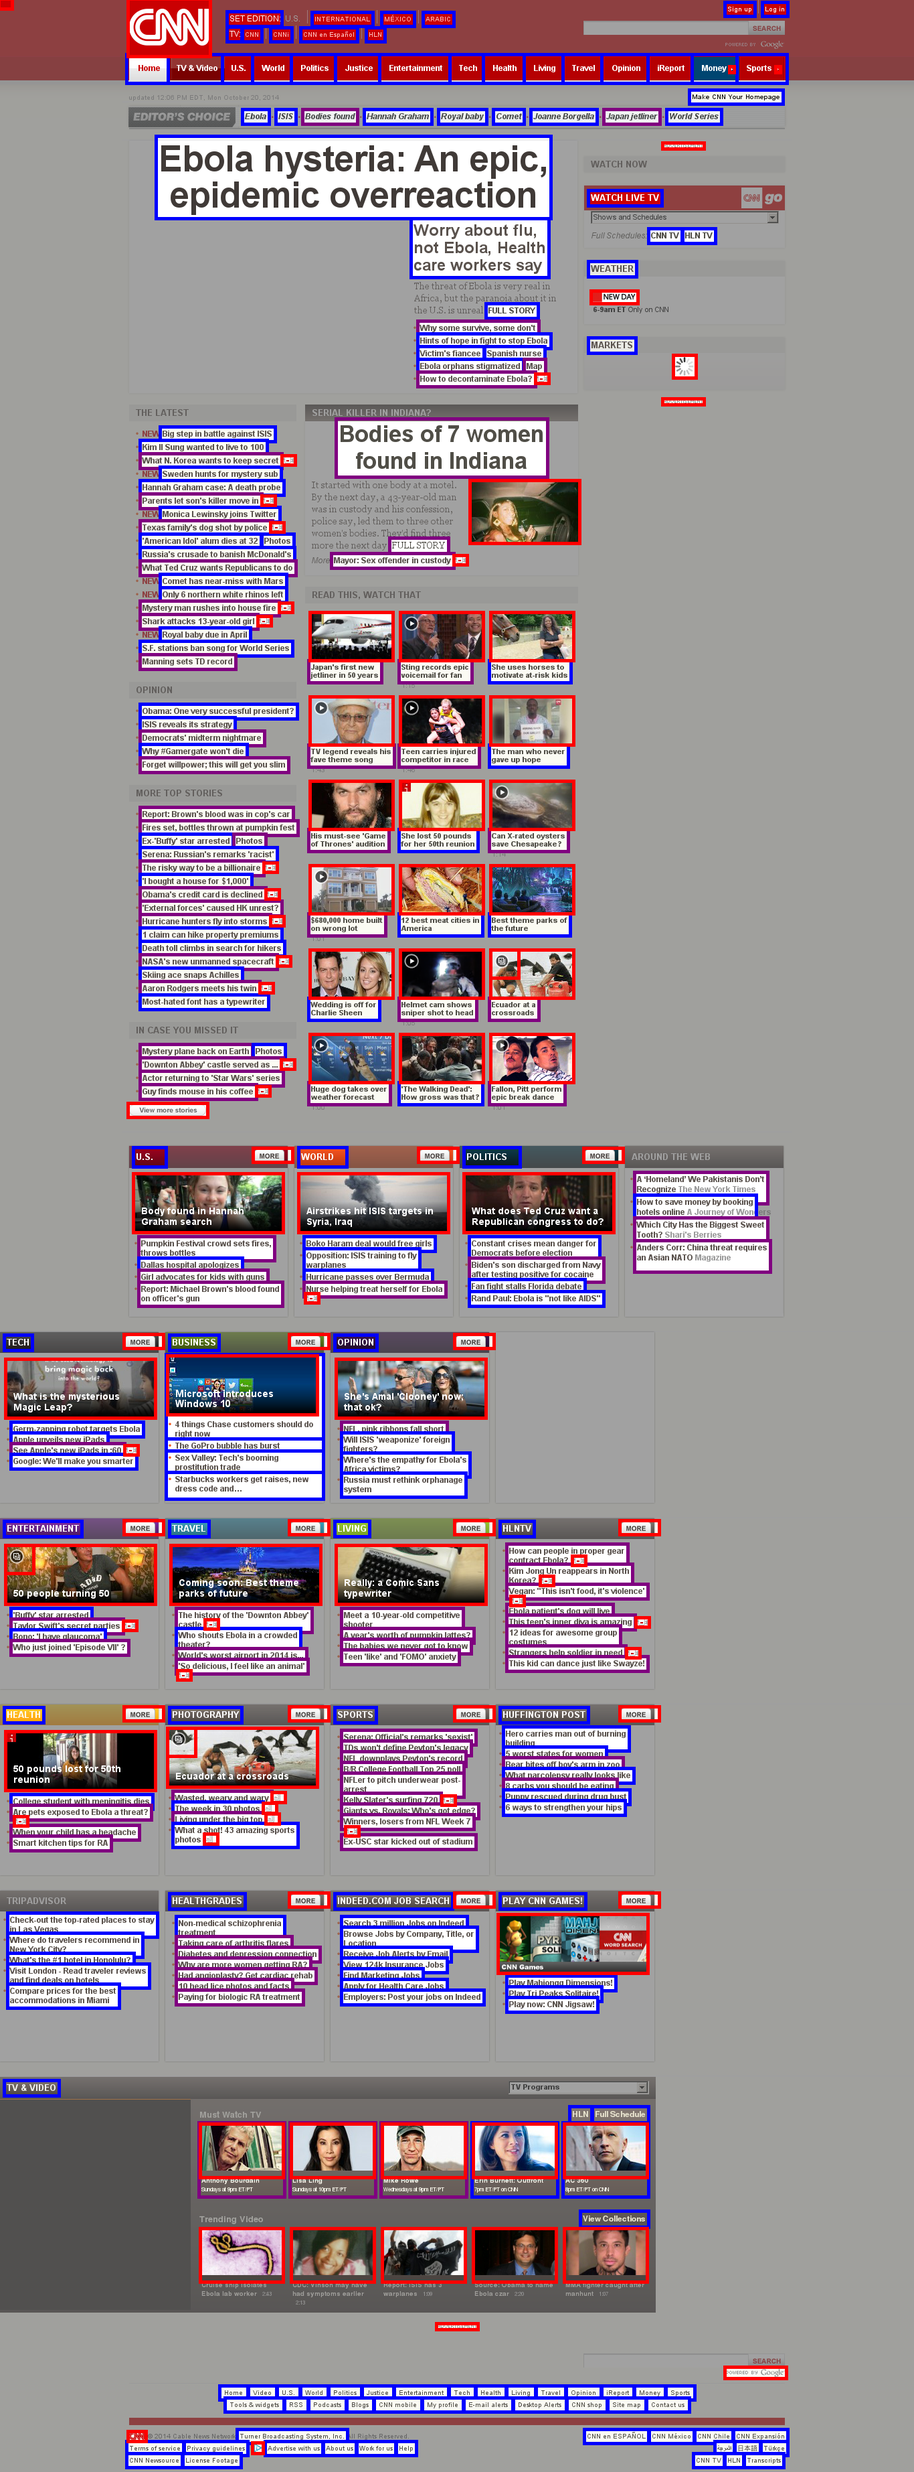
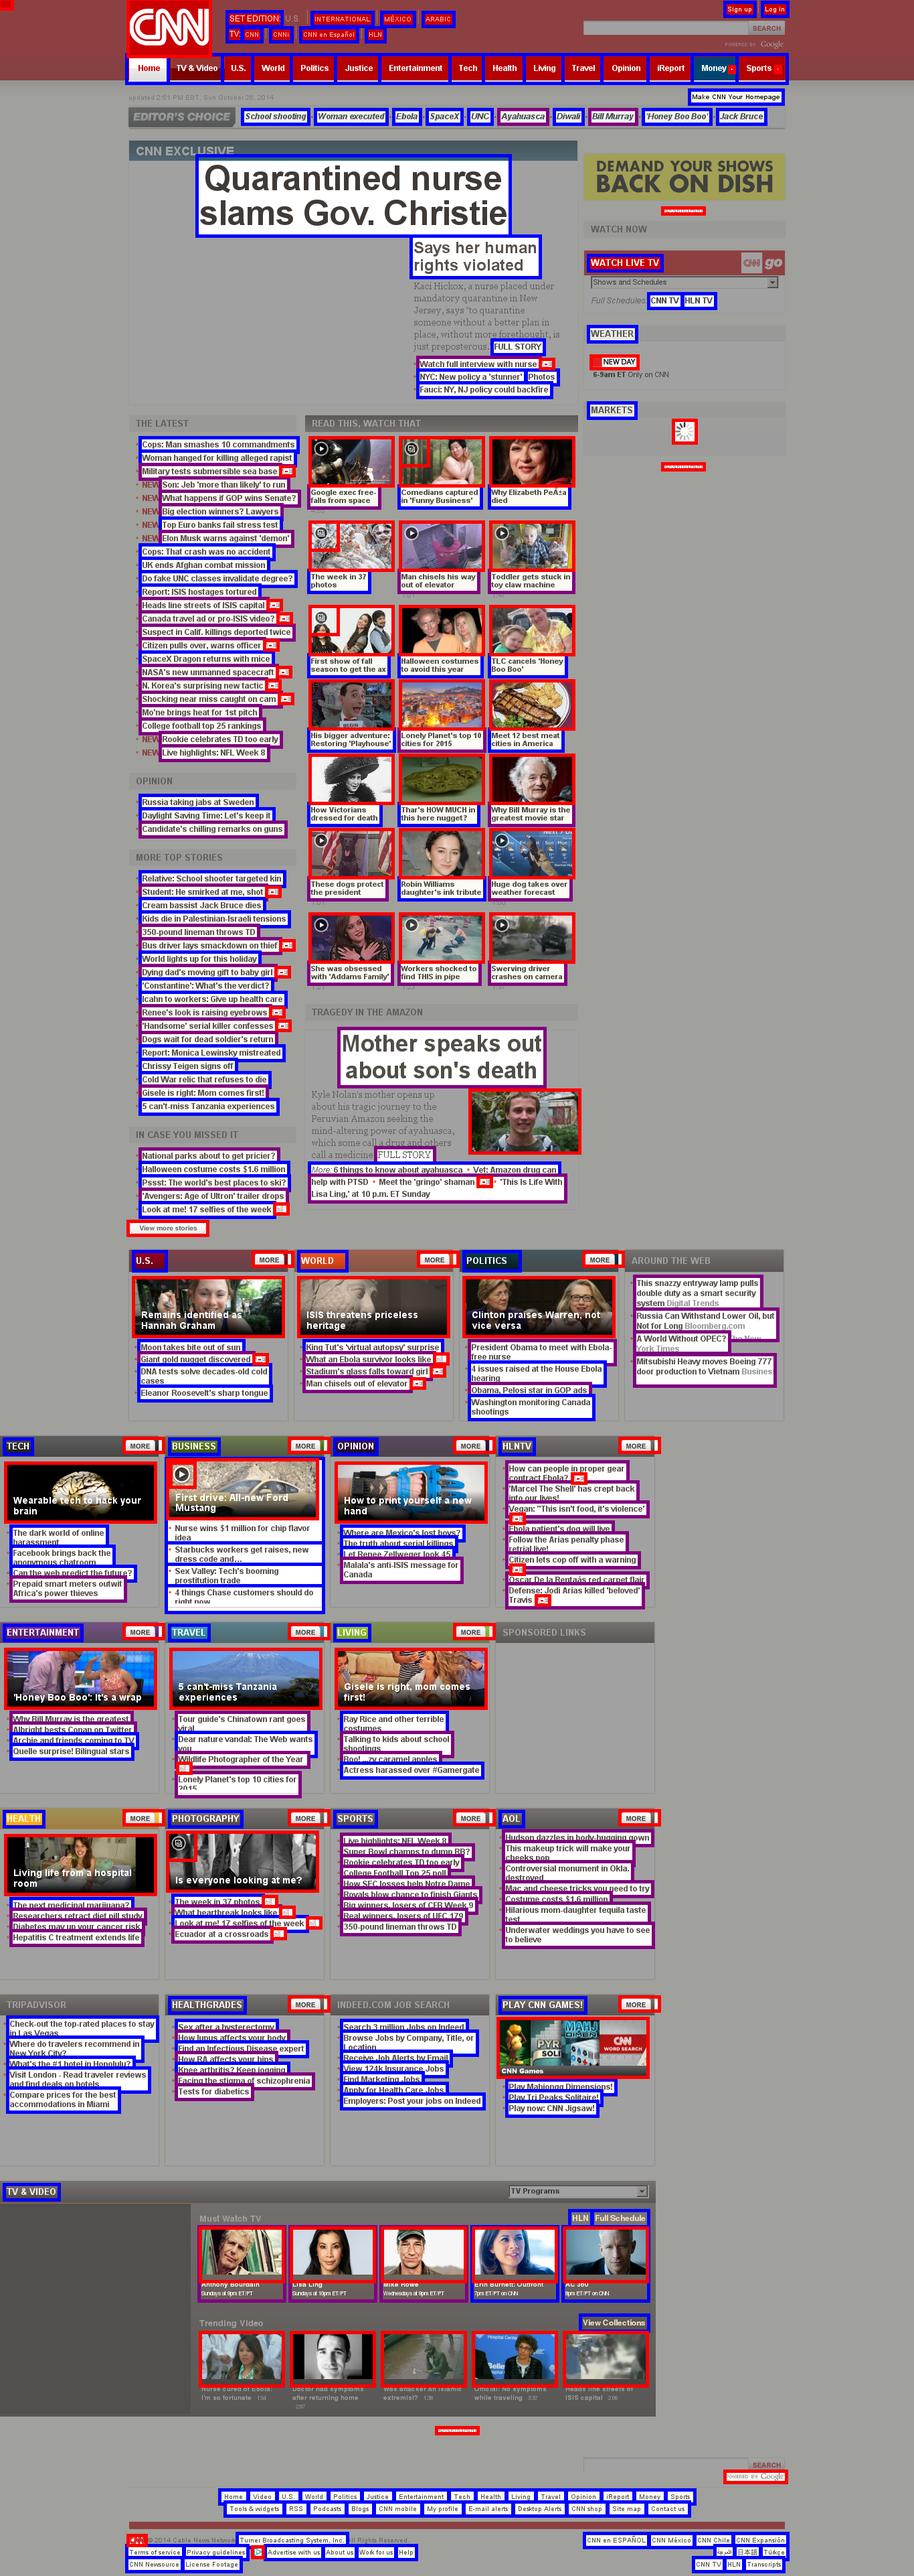
Reworked how we fit images together into GIFs to avoid cropping when height varies. Fixes #72.

diff --git a/storytracker/analysis.py b/storytracker/analysis.py
@@ -16,11 +16,10 @@ import storysniffer
 from six import BytesIO
 from datetime import timedelta
 from selenium import webdriver
-from jinja2 import Environment, PackageLoader
-from .toolbox import UnicodeMixin, indent
-from PIL import ImageOps
 from PIL import Image as PILImage
 from PIL import ImageDraw as PILImageDraw
+from .toolbox import UnicodeMixin, indent
+from jinja2 import Environment, PackageLoader
 if six.PY2:
     import unicodecsv as csv
 else:
@@ -882,7 +881,7 @@ class ArchivedURLSet(collections.MutableSequence):
         return keys.keys()
 
     #
-    # Analyzing all hyperlinks
+    # Extract and analyze hyperlinks
     #
 
     def get_hyperlinks(self, force=False):
@@ -1137,10 +1136,6 @@ class ArchivedURLSet(collections.MutableSequence):
         file.write(html)
         file.close()
 
-    #
-    # Analyze individual hyperlinks
-    #
-
     def print_href_analysis(self, href):
         """
         Outputs a human-readable analysis of the submitted href's position
@@ -1189,6 +1184,37 @@ class ArchivedURLSet(collections.MutableSequence):
         )
         print table
 
+    #
+    # Overlays and illustractions
+    #
+
+    def fit_image_list(self, img_list):
+        """
+        Accepts a list of PIL image objects and pastes them
+        onto a backgrounds of an identical size.
+
+        Intended to prep images to be combined into an animated GIF.
+        """
+        # Figure out the biggest one
+        max_width = max([i.size[0] for i in img_list])
+        max_height = max([i.size[1] for i in img_list])
+
+        # Loop through the images
+        paste_list = []
+        for img in img_list:
+            # Paste them onto a background of the same size as the largest
+            # one in the set
+            paste = PILImage.new(
+                "RGBA",
+                (max_width, max_height),
+                (255, 255, 255, 255)
+            )
+            paste.paste(img, (0, 0))
+            paste_list.append(paste)
+
+        # Pass the list back
+        return paste_list
+
     def write_overlay_animation_to_directory(self, path, duration=1):
         """
         Writes out animation of the pages
@@ -1216,23 +1242,12 @@ class ArchivedURLSet(collections.MutableSequence):
             this_img = PILImage.open(jpg)
             img_list.append(this_img)
 
-        # Resize them so they fit together
-        # and then thumbnail them down
-        min_width = min([i.size[0] for i in img_list])
-        min_height = min([i.size[1] for i in img_list])
-        max_width = max([i.size[0] for i in img_list])
-        max_height = max([i.size[1] for i in img_list])
-        trim_list = []
-        for x, i in enumerate(img_list):
-            if i.size != (min_width, min_height):
-                i = ImageOps.fit(i, (min_width, min_height))
-            i.thumbnail((max_width, max_height), PILImage.ANTIALIAS)
-            trim_list.append(i)
+        img_list = self.fit_image_list(img_list)
 
         # Create the GIF animation
         if os.path.exists(path):
             os.remove(path)
-        images2gif.writeGif(path, trim_list, duration=duration)
+        images2gif.writeGif(path, img_list, duration=duration)
 
         # Delete all the jpgs
         for jpg in jpg_paths:
@@ -1262,23 +1277,12 @@ class ArchivedURLSet(collections.MutableSequence):
         for jpg in jpg_paths:
             img_list.append(PILImage.open(jpg))
 
-        # Resize them so they fit together
-        # and then thumbnail them down
-        min_width = min([i.size[0] for i in img_list])
-        min_height = min([i.size[1] for i in img_list])
-        max_width = max([i.size[0] for i in img_list])
-        max_height = max([i.size[1] for i in img_list])
-        trim_list = []
-        for x, i in enumerate(img_list):
-            if i.size != (min_width, min_height):
-                i = ImageOps.fit(i, (min_width, min_height))
-            i.thumbnail((max_width, max_height), PILImage.ANTIALIAS)
-            trim_list.append(i)
+        img_list = self.fit_image_list(img_list)
 
         # Create the GIF animation
         if os.path.exists(path):
             os.remove(path)
-        images2gif.writeGif(path, trim_list, duration=duration)
+        images2gif.writeGif(path, img_list, duration=duration)
 
         # Delete all the jpgs
         for jpg in jpg_paths:
@@ -1343,23 +1347,12 @@ class ArchivedURLSet(collections.MutableSequence):
         for jpg in jpg_paths:
             img_list.append(PILImage.open(jpg))
 
-        # Resize them so they fit together
-        # and then thumbnail them down
-        min_width = min([i.size[0] for i in img_list])
-        min_height = min([i.size[1] for i in img_list])
-        max_width = max([i.size[0] for i in img_list])
-        max_height = max([i.size[1] for i in img_list])
-        trim_list = []
-        for x, i in enumerate(img_list):
-            if i.size != (min_width, min_height):
-                i = ImageOps.fit(i, (min_width, min_height))
-            i.thumbnail((max_width, max_height), PILImage.ANTIALIAS)
-            trim_list.append(i)
+        img_list = self.fit_image_list(img_list)
 
         # Create the GIF animation
         if os.path.exists(path):
             os.remove(path)
-        images2gif.writeGif(path, trim_list, duration=duration)
+        images2gif.writeGif(path, img_list, duration=duration)
 
         # Delete all the jpgs
         for jpg in jpg_paths:
@@ -1411,23 +1404,13 @@ class ArchivedURLSet(collections.MutableSequence):
             this_img = PILImage.open(png)
             img_list.append(this_img)
 
-        # Resize them so they fit together
-        # and then thumbnail them down
-        min_width = min([i.size[0] for i in img_list])
-        min_height = min([i.size[1] for i in img_list])
-        max_width = max([i.size[0] for i in img_list])
-        max_height = max([i.size[1] for i in img_list])
-        trim_list = []
-        for x, i in enumerate(img_list):
-            if i.size != (min_width, min_height):
-                i = ImageOps.fit(i, (min_width, min_height))
-            i.thumbnail((max_width, max_height), PILImage.ANTIALIAS)
-            trim_list.append(i)
+        # Fit them all onto backgrounds of the same size
+        img_list = self.fit_image_list(img_list)
 
         # Create the GIF animation
         if os.path.exists(path):
             os.remove(path)
-        images2gif.writeGif(path, trim_list, duration=duration)
+        images2gif.writeGif(path, img_list, duration=duration)
 
         # Delete all the jpgs
         for png in png_paths:

diff --git a/example.py b/example.py
@@ -31,11 +31,11 @@ urlset = storytracker.ArchivedURLSet([
 ])
 
 ## URL images
-#obj = storytracker.archive("http://www.cnn.com/")
-#illo_path = obj.write_illustration_to_directory("./docs/_static/example/")
-#overlay_path = obj.write_overlay_to_directory("./docs/_static/example/")
-#os.rename(illo_path, "./docs/_static/example/illo.jpg")
-#os.rename(overlay_path, "./docs/_static/example/overlay.png")
+obj = storytracker.archive("http://www.cnn.com/")
+illo_path = obj.write_illustration_to_directory("./docs/_static/example/")
+overlay_path = obj.write_overlay_to_directory("./docs/_static/example/")
+os.rename(illo_path, "./docs/_static/example/illo.jpg")
+os.rename(overlay_path, "./docs/_static/example/overlay.png")
 
 # URL images
 urlset2 = storytracker.ArchivedURLSet([
@@ -43,13 +43,12 @@ urlset2 = storytracker.ArchivedURLSet([
     storytracker.open_wayback_machine_url("https://web.archive.org/web/20140101080323/http://www.bbc.co.uk/news/"),
     storytracker.open_wayback_machine_url("https://web.archive.org/web/20140101094432/http://www.bbc.co.uk/news/"),
 ])
-#urlset2[0].write_overlay_to_directory("./")
+urlset2[0].write_overlay_to_directory("./")
 gif_path = urlset2.write_href_overlay_animation_to_directory(
     "https://web.archive.org/news/world-africa-25561753",
     "./docs/_static/example/"
 )
 os.rename(gif_path, "./docs/_static/example/href.gif")
 
-#urlset[0].write_analysis_report_to_directory("./docs/_static/example/")
-#urlset.write_analysis_report_to_directory("./docs/_static/example/")
-
+urlset[0].write_analysis_report_to_directory("./docs/_static/example/")
+urlset.write_analysis_report_to_directory("./docs/_static/example/")

diff --git a/storytracker/images2gif.py b/storytracker/images2gif.py
@@ -65,7 +65,7 @@ Usefull links
 """
 # todo: This module should be part of imageio (or at least based on)
 
-import os, time
+import os
 
 def encode(x):
   if False:
@@ -327,7 +327,6 @@ class GifWriter:
         # Prepare
         ims2 = [ims[0]]
         xy = [(0,0)]
-        t0 = time.time()
 
         # Iterate over images
         prev = ims[0]
